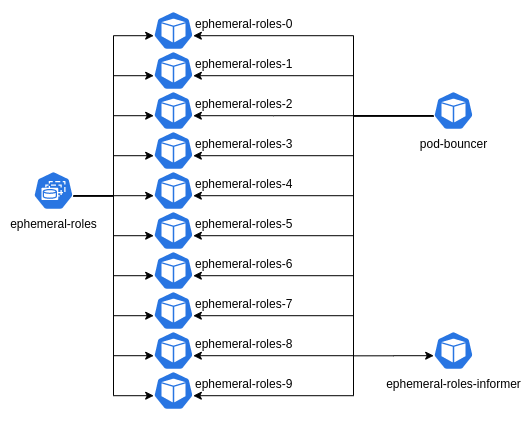
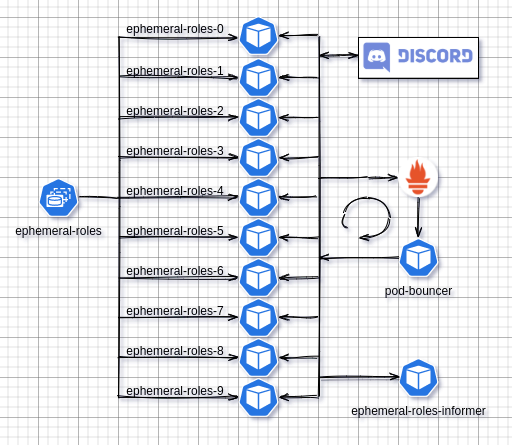
Update README.md

diff --git a/README.md b/README.md
@@ -66,25 +66,25 @@ A **[Prometheus](https://prometheus.io/)** and **[Grafana](https://grafana.com/)
 | Architectural Diagram |
 | :------: |
 | ![Architecture](https://raw.githubusercontent.com/ewohltman/ephemeral-roles/master/web/static/architecture.png) |
+| Architectural diagram created with [draw.io](https://draw.io/) |
 
-`Ephemeral Roles` runs in a Kubernetes cluster as a StatefulSet of 10
-Pods. Each Pod contains a running instance of the bot. A StatefulSet is
-used so that each Pod has a predictable name so that the bot instance can
-inform the Discord API which one of the 10 Pods it is. The Discord
-API will assign a number of the total guilds (servers) to each of the bot
-instances to balance the load of managing the guild events. If any of the
-Pods stop running for whatever reason, the StatefulSet will automatically
-restart them.
-
-Another application, [pod-bouncer](https://github.com/ewohltman/pod-bouncer),
-runs in a Pod and is responsible for receiving alerts from
-`Prometheus`/`AlertManager` and to act upon them by automatically causing
-unhealthy Pods for `Ephemeral Roles` to restart.
-
-Additionally, [ephemeral-roles-informer](https://github.com/ewohltman/ephemeral-roles-informer)
-runs in another Pod and is responsible for collecting metrics from the
-`Ephemeral Roles` instances to update search services such as
-[discord.bots.gg](https://discord.bots.gg/) and [top.gg](https://top.gg/).
+* `ephemeral-roles`:
+  * Runs in a Kubernetes cluster as a StatefulSet of 10 Pods. Each Pod contains
+    a running instance of the bot
+  * A StatefulSet is used so that each Pod has a predictable name so that the
+    bot instance can inform the Discord API which of the 10 Pods it is
+  * The Discord API will assign a number of the total guilds (servers) to each
+    of the bot instances to balance the load of managing the guild events
+  * If any of the Pods stop running for whatever reason, the StatefulSet will
+    automatically restart them
+* `pod-bouncer` (https://github.com/ewohltman/pod-bouncer):
+  * Runs in a Pod and is responsible for receiving alerts from
+    `Prometheus`/`AlertManager` and to act upon them by automatically causing
+    unhealthy Pods for `ephemeral-roles` to restart
+* `ephemeral-roles-informer` (https://github.com/ewohltman/ephemeral-roles-informer):
+  * Runs in a Pod and is responsible for collecting metrics from the
+    `ephemeral-roles` instances to update search services such as
+    [discord.bots.gg](https://discord.bots.gg/) and [top.gg](https://top.gg/)
 
 ----
 
